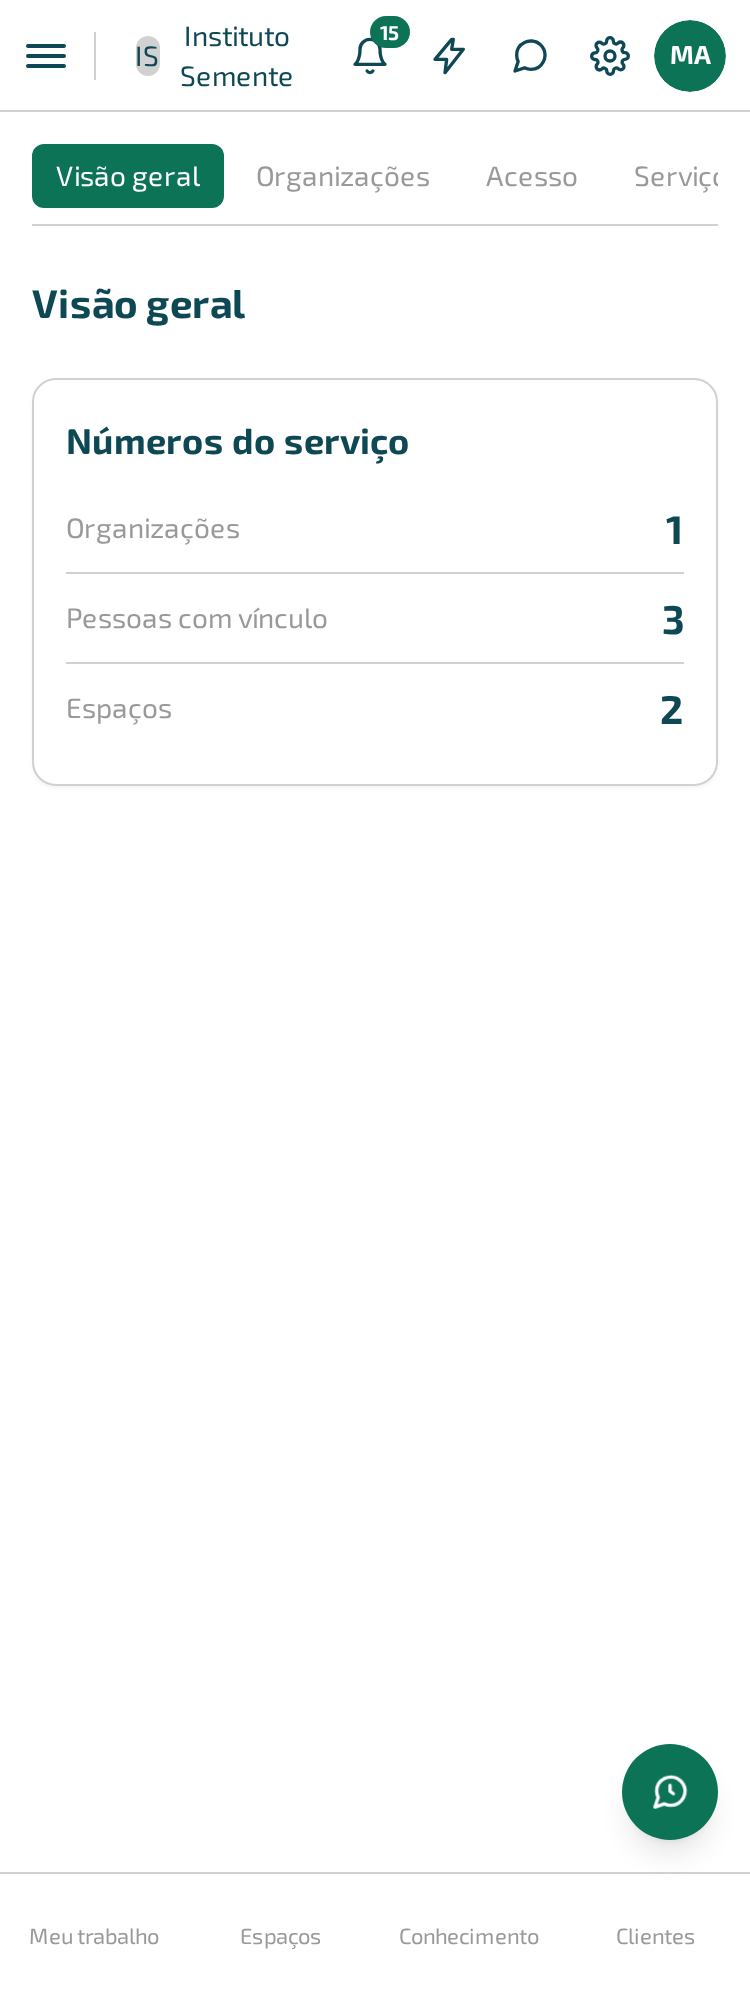
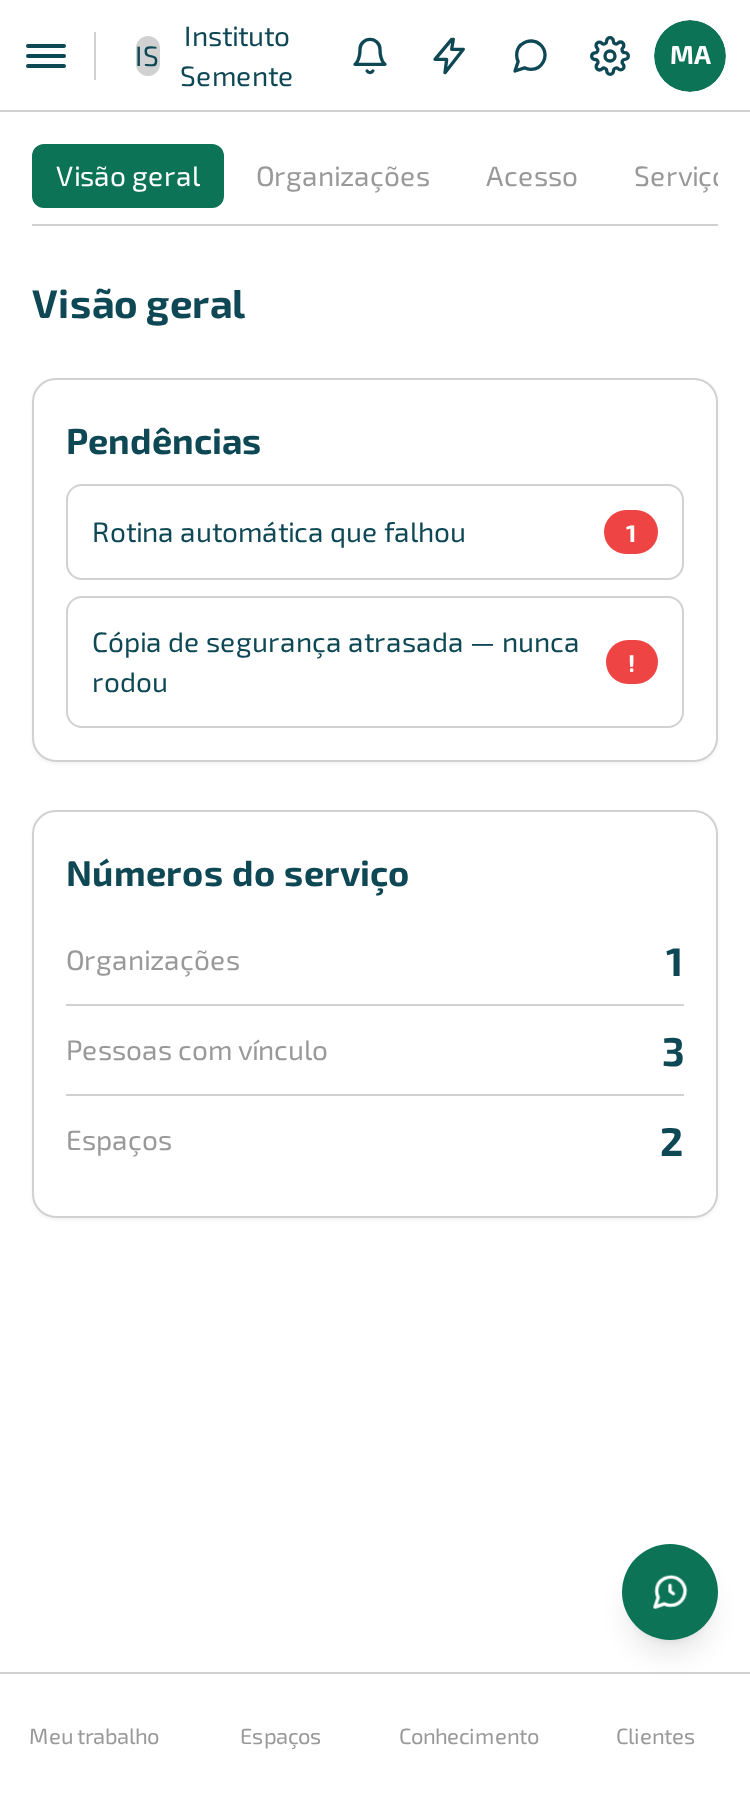
docs: acompanha a 0.23.0 — painel de tarefa rearrumado e pendências na administração
O painel da tarefa ganhou a seção "Responsável e etapa", separando o que
grava no clique do que precisa de botão, com a frase que a própria tela
mostra. A página passou a descrever a ordem das seções e a imagem foi
refeita abrindo a tarefa pelo quadro, com as três primeiras seções juntas
— é o que ensina a diferença melhor que o texto.

A Visão geral da administração foi reescrita: ela agora abre pelo que
espera decisão, e os números desceram. A página explica os três estados de
cada pendência, e por que a frase de "tudo em dia" não aparece quando uma
apuração falha — uma tela que diz que está tudo bem porque a consulta
falhou seria pior que uma tela calada.

diff --git a/admin-servico/painel.md b/admin-servico/painel.md
@@ -3,25 +3,67 @@ title: "Visão geral"
 nav_order: 1
 parent: "Administração do serviço"
 permalink: /admin-servico/painel/
-palavras_chave: "contagens gerais, visão geral, quantas organizações, quantos espaços, limite de alcance, cópia de segurança"
+palavras_chave: "pendências, o que precisa de decisão, pedidos esperando, feedback sem resposta, rotina falhou, cópia atrasada, contagens gerais, quantas organizações, quantos espaços"
 ---
 
 # Visão geral
 
-A aba **"Visão geral"** é a primeira coisa que você vê ao abrir a administração
-do serviço.
-Ele existe para dar um retrato rápido de tamanho — quantas organizações usam o
-produto, quantas pessoas, quantos espaços — sem abrir o conteúdo de nenhuma
+A aba **"Visão geral"** é a primeira coisa que você vê ao abrir a administração do serviço. Ela
+responde duas perguntas, nesta ordem: **o que está esperando você**, e **qual o tamanho do
+serviço**.
+
+## Pendências
+
+O primeiro cartão da tela, **"Pendências"**, lista o que precisa de decisão sua. Cada item é um
+link que leva direto à tela onde se resolve, com a contagem ao lado:
+
+- **"Pedidos de organização"** — pedidos de criação esperando você aprovar ou recusar.
+- **"Feedbacks sem resposta"** — o que as pessoas mandaram de dentro do produto e ninguém
+  respondeu.
+- **"Rotina automática que falhou"** — alguma rotina da instalação parou com falha.
+- **"Cópia de segurança atrasada"** — a última cópia do banco passou de 48 horas. A linha diz
+  desde quando: **"Cópia de segurança atrasada — última em [data e hora]"**, ou **"Cópia de
+  segurança atrasada — nunca rodou"** quando nenhuma cópia foi reportada ainda.
+
+### Por que isto importa
+
+Antes, esta tela abria com contagens — quantas organizações, quantas pessoas — que não pedem ação
+nenhuma. Quem administra o serviço não precisa saber o tamanho dele todo dia; precisa saber se
+alguém está esperando uma decisão. Por isso o que espera vem primeiro, e os números desceram.
+
+**Item zerado some da lista.** A tela não mostra "0 pedidos" — se não há pedido esperando, aquela
+linha simplesmente não existe, e o que sobra é o que precisa de você.
+
+### Quando não há nada esperando
+
+Estando tudo zerado, a seção continua na tela e mostra:
+
+**"Nenhuma pendência agora — tudo em dia."**
+
+{: .important }
+**Essa frase só aparece quando os quatro itens foram apurados com sucesso.** Falhando a apuração
+de um deles, ela não aparece — mesmo que todo o resto esteja zerado. É deliberado: uma tela que diz
+"tudo em dia" porque a consulta falhou é pior do que uma tela que não diz nada.
+
+### Quando um item não pôde ser apurado
+
+O item aparece com o rótulo **"Não foi possível apurar"** no lugar da contagem, e continua sendo um
+link — para você abrir a tela e olhar por conta própria. É o terceiro estado, e o mais fácil de
+confundir com "está tudo bem": **não é**. Significa que ninguém sabe, nem você nem a tela.
+
+## Números do serviço
+
+Abaixo das pendências, o cartão **"Números do serviço"** dá o retrato de tamanho — quantas
+organizações usam o produto, quantas pessoas, quantos espaços — sem abrir o conteúdo de nenhuma
 delas.
 
-## Passo a passo
+![Aba "Visão geral" da administração do serviço, com o cartão "Pendências" em cima e "Números do serviço" abaixo](/assets/capturas/admin-servico-painel-desktop.png)
+{: .mt-4 }
 
-1. Na administração do serviço, abra a aba **"Visão geral"** — é a que abre por padrão.
-2. As três contagens aparecem em **"Números do serviço"**.
+A mesma tela no celular:
 
-<!-- CAPTURA PENDENTE: a tela mudou na 0.20.0 (menu de abas) e os títulos ainda vão ser
-     normalizados (issue #168). Refazer depois disso, e sem enquadrar a contagem de espaços
-     enquanto a issue #167 não sair — ela mostra zero havendo espaços. -->
+![Aba "Visão geral" da administração do serviço, com as pendências em cima e as contagens abaixo — no celular](/assets/capturas/admin-servico-painel-celular.png){: style="max-width:375px" }
+{: .mt-4 }
 
 ## O que cada número conta
 
@@ -58,13 +100,10 @@ enxerga o próprio conteúdo.
 
 ## O que mais existe nesta aba
 
-Nada além disso: a **"Visão geral"** tem só o cartão **"Números do serviço"**.
-Ela é um retrato de tamanho, não um painel de controle.
+Nada além dos dois cartões: **"Pendências"** e **"Números do serviço"**.
 
 Todo o resto — organizações, acesso, serviços, manutenção e feedbacks — fica nas
 outras abas. O [índice desta seção](/admin-servico/) lista o que há em cada uma.
-O estado da última cópia de segurança, por exemplo, fica na aba
-**"Manutenção"**; veja [Cópia de segurança](/admin-servico/copia-de-seguranca/).
 
 ## Quando dá errado
 

diff --git a/trabalho/criar-tarefas.md b/trabalho/criar-tarefas.md
@@ -78,12 +78,12 @@ não pode ser responsável — só quem executa ou gerencia este espaço."
      editado diretamente **antes de existir pela primeira vez**; depois disso, mudar o prazo
      passa a ser por reprogramação (veja abaixo).
 
-![Painel de uma tarefa aberto, com datas, subtarefas, dependências e materiais](/assets/capturas/detalhe-tarefa-desktop.png)
+![Painel de uma tarefa aberto sobre o quadro, com as seções Informações, Datas e "Responsável e etapa" na ordem, mostrando os dois botões de salvar e a seção que não tem botão](/assets/capturas/detalhe-tarefa-desktop.png)
 {: .mt-4 }
 
 A mesma tela no celular:
 
-![Painel de uma tarefa aberto, com datas, subtarefas, dependências e materiais — no celular](/assets/capturas/detalhe-tarefa-celular.png){: style="max-width:375px" }
+![Painel de uma tarefa aberto, com as seções Informações, Datas e "Responsável e etapa" na ordem — no celular](/assets/capturas/detalhe-tarefa-celular.png){: style="max-width:375px" }
 
 {: .note }
 Depois que o prazo acordado existe uma vez, o campo fica desabilitado e a tela mostra: "Já existe
@@ -94,7 +94,9 @@ trabalho](/trabalho/meu-trabalho/) para o selo "Reprogramação de prazo pendent
 ## Como o painel de detalhe grava
 
 No painel da tarefa, **o que você digita só é gravado quando você clica em salvar**; o que você
-escolhe numa lista é gravado na hora.
+escolhe numa lista é gravado na hora. As seções estão arrumadas nessa ordem, de cima para baixo:
+primeiro **"Informações"** e **"Datas"**, que têm botão, e logo abaixo **"Responsável e etapa"**,
+que não tem.
 
 ### Por que isto importa
 
@@ -114,8 +116,13 @@ por ele que você enxerga que existe alteração pendente.
 
 ### O que grava sozinho
 
-**"Responsável"** e a etapa da tarefa gravam no instante em que você escolhe, sem botão — são
-escolhas de lista, em que não há texto a perder.
+Na seção **"Responsável e etapa"**, os dois campos gravam no instante em que você escolhe. A
+própria tela avisa, logo abaixo do título da seção:
+
+**"Estes dois campos são salvos assim que você escolhe — não precisam de botão."**
+
+São escolhas de lista, em que não há texto a perder — por isso não faz sentido pedir um clique a
+mais. É também nessa seção que fica o botão **"Remover tarefa"**.
 
 ### Fechar com alteração pendente
 
@@ -153,7 +160,8 @@ aparece um "pronto" único que esconderia uma recusa no meio.
 
 ## Remover uma tarefa
 
-No painel de detalhe da tarefa, clique em **"Remover tarefa"**. A confirmação avisa: **"A tarefa
+No painel de detalhe da tarefa, na seção **"Responsável e etapa"**, clique em
+**"Remover tarefa"**. A confirmação avisa: **"A tarefa
 '[título]' será apagada, com suas mensagens e material anexado. Esta ação não pode ser
 desfeita."**
 

diff --git a/admin-servico/index.md b/admin-servico/index.md
@@ -32,8 +32,8 @@ clique — não é preciso voltar à primeira tela.
 
 ## O que você encontra aqui, por aba
 
-**Visão geral** — [as contagens do serviço](/admin-servico/painel/): quantas organizações,
-quantas pessoas e quantos espaços.
+**Visão geral** — [o que está esperando decisão sua](/admin-servico/painel/) e, abaixo, as
+contagens do serviço: quantas organizações, quantas pessoas e quantos espaços.
 
 **Organizações**
 - [Organizações](/admin-servico/organizacoes/) — a lista de todas as organizações do serviço, o
